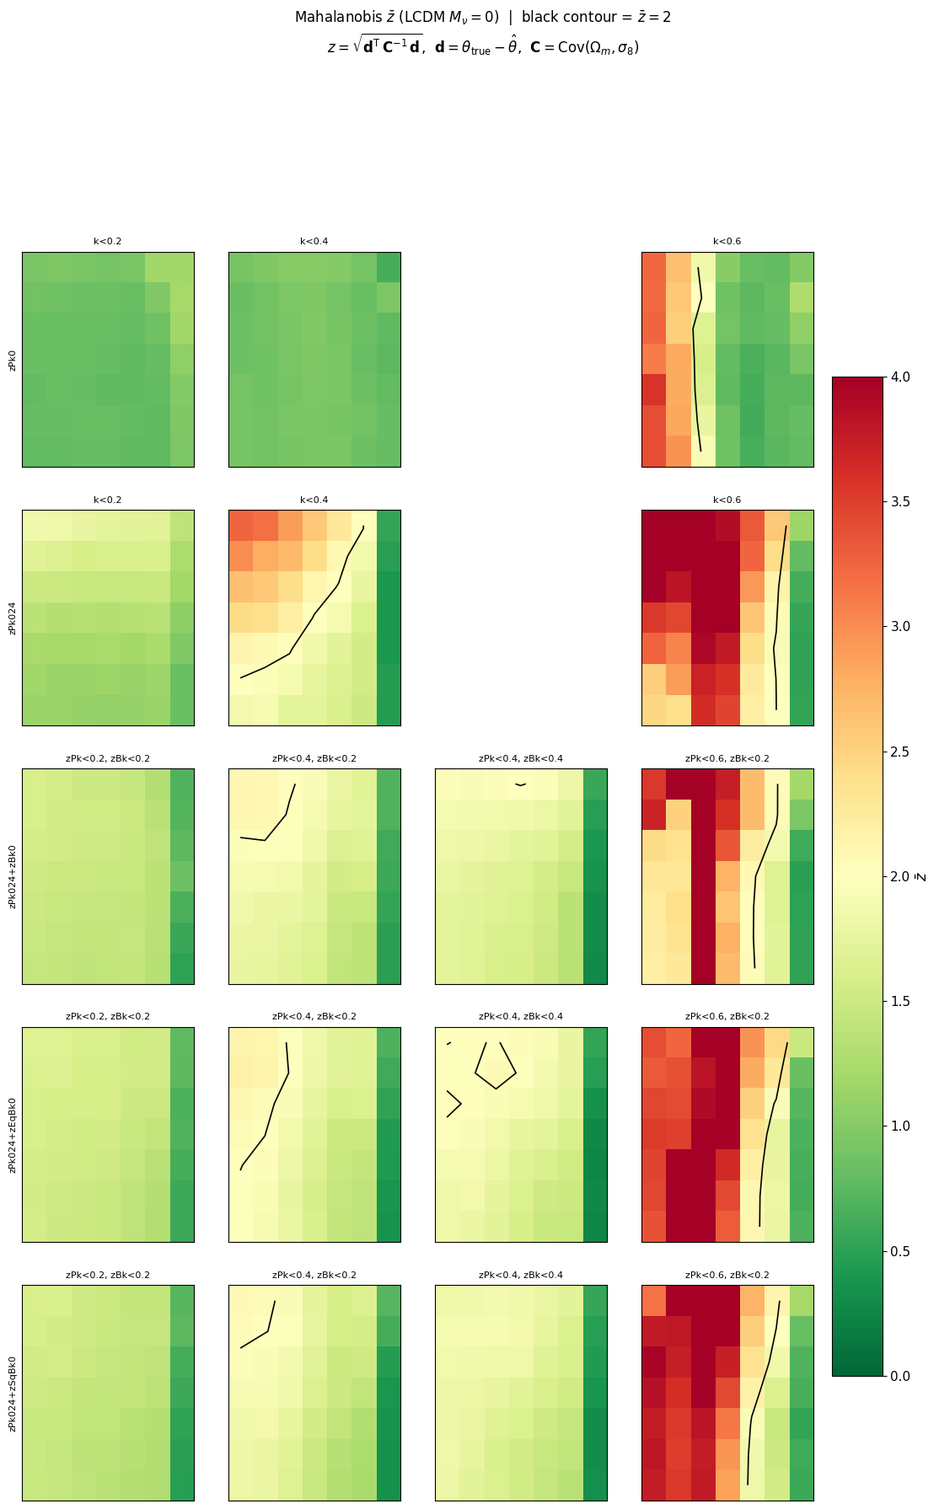
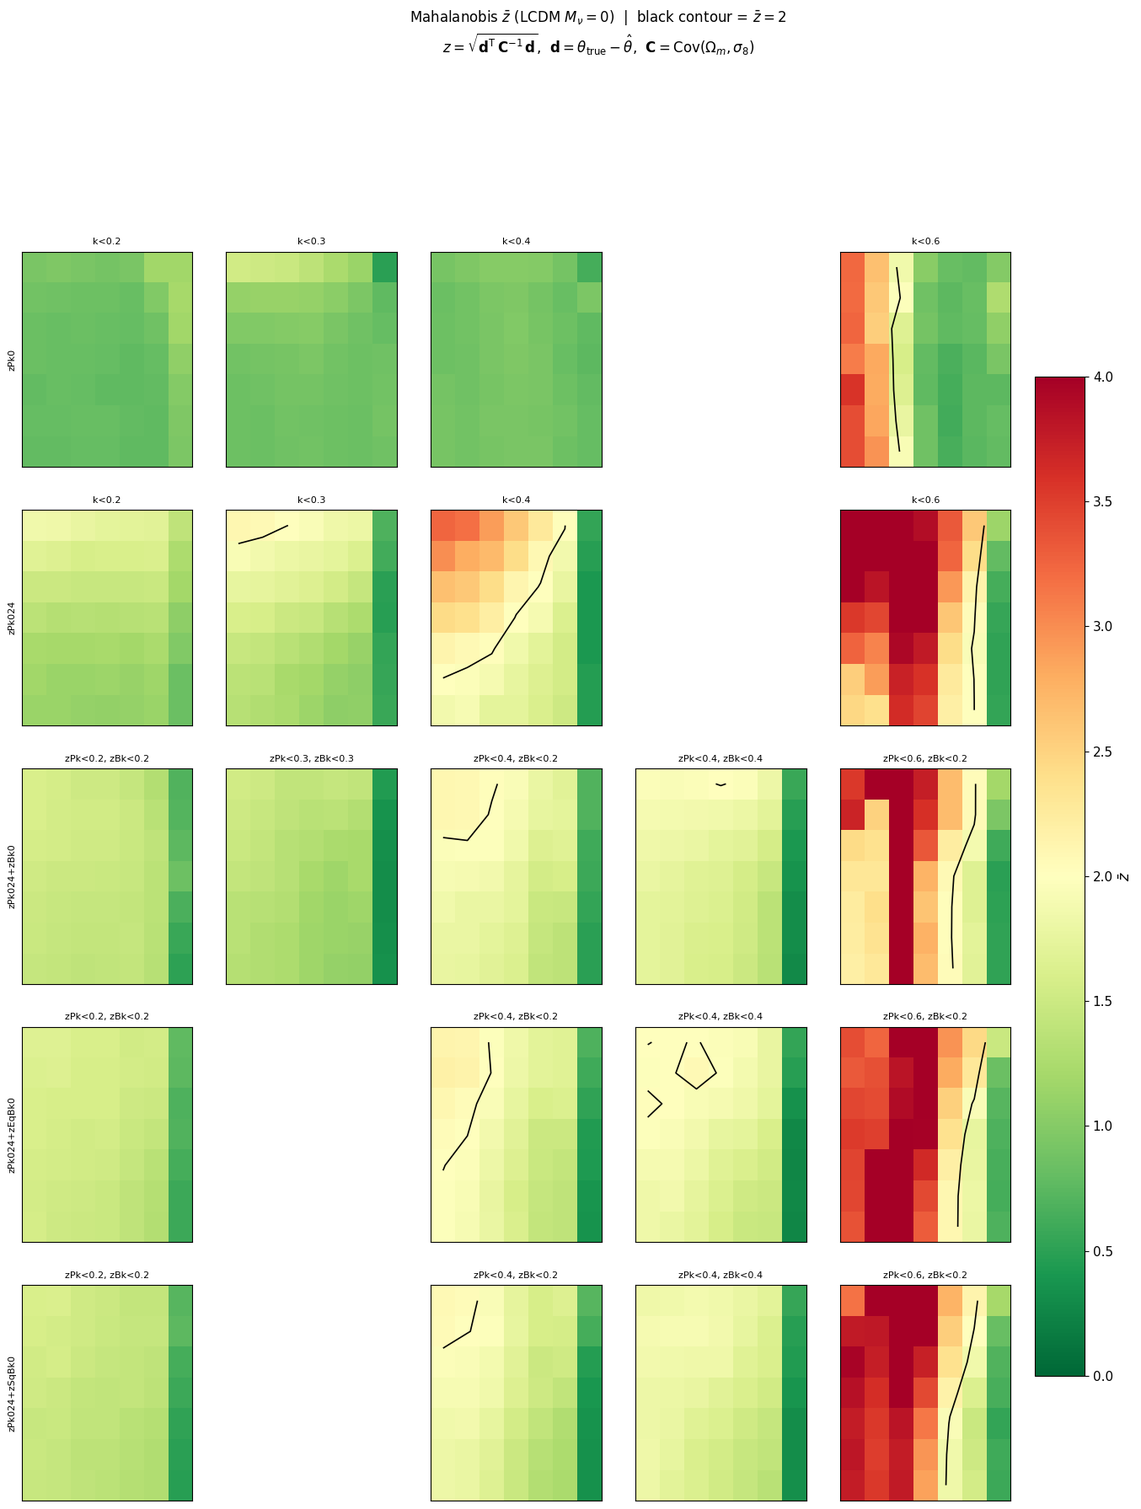
Abacus reparam HOD PPCs

diff --git a/experiments/2026-10-02_ppc_abacuslike-fastpm_charm7_cosmoHOD_reparam_abacus-nbody_comp_gridnoise_reparam/update.md b/experiments/2026-10-02_ppc_abacuslike-fastpm_charm7_cosmoHOD_reparam_abacus-nbody_comp_gridnoise_reparam/update.md
@@ -1,0 +1,166 @@
+# Posterior predictive check: `abacuslike/fastpm_charm7_cosmoHOD_reparam` against a noise-free Abacus observation, seven inference configurations
+
+**Date**: 2026-10-02
+**Type**: Miscellaneous / posterior predictive check
+**Train**: abacuslike fastpm_charm7_cosmoHOD_reparam (`infer.reparam_degeneracy=True`), L=2000 Mpc/h, N=256, z=0.5; 10-net lampe/NPE ensembles; posterior, forward chain and quantile reference pool all from this suite
+**Test**: abacus nbody_comp_gridnoise_reparam, lhid 38 = `AbacusSummit_base_c018_ph000` (LCDM, Mν=0), `hod00001_noise000000.h5`, i.e. σ_rad = σ_tran = 0. True [Ωm, Ωb, h, n_s, σ8] = [0.3071, 0.0482, 0.6777, 0.960, 0.8197]
+**Notes**: Out-of-distribution. Seven campaigns, one per inference configuration, each with 50 joint draws from q(θ|x_obs), resimulated through FastPM → CHARM charm7 (`charm_joint_v19.pth`, on DeltaAI) → `apply_hod` → `cmass.diagnostics.summ`. All 7 × 50 draws were collected, with cosmology, HOD and noise verified against the draw. Two zPk024 kmax=0.3 draws (ids 34, 35) had their stage-C jobs cancelled by SLURM and were rerun. With N = 50 the p-value floor is 1/(N+1) = 0.020, and the Monte Carlo error is ±0.06–0.07 near p = 0.5. The draws were inverted from (degen_r, degen_phi) to physical (eta_vb_centrals, noise_radial) before simulation; 4 zPk0 kmax=0.3 draws were rejected for falling outside the physical prior box and redrawn. x_obs comes from the Abacus suite re-preprocessed with `reparam_degeneracy=True`, `test_frac=1` (see the 2026-10-01 OOD note). Same observed lhid as the 2026-09-22 PPC, but at noise (0, 0) instead of (0.75, 0.75).
+
+---
+
+## Setup
+
+| Campaign | Conditioned on | Cut | D (cond.) | D (held out) |
+|---|---|---|---|---|
+| zPk0k02 | zPk0 | k<0.2 | 19 | 141 |
+| zPk0k03 | zPk0 | k<0.3 | 29 | 286 |
+| zPk024k02 | zPk0+zPk2+zPk4 | k<0.2 | 57 | 103 |
+| zPk024k03 | zPk0+zPk2+zPk4 | k<0.3 | 87 | 228 |
+| zPk024k04 | zPk0+zPk2+zPk4 | k<0.4 | 117 | 555 |
+| zPk024zBk0k02 | zPk0+zPk2+zPk4+zBk0 | zPk<0.2, zBk<0.2 | 79 | 81 |
+| zPk024zBk0k03 | zPk0+zPk2+zPk4+zBk0 | zPk<0.3, zBk<0.3 | 137 | 178 |
+
+Held-out blocks are cut at the campaign's own kmax (the zBk cut where one exists), so the held-out bispectrum has 22 triangles at 0.2, 50 at 0.3 and 125 at 0.4. The kmax=0.3 models were trained with fewer Optuna trials than the others (~57–77 against ~170; see the 2026-10-01 OOD note).
+
+## Overview
+
+| Campaign | cond. PCA | cond. Ledoit-Wolf | held-out PCA | held-out Ledoit-Wolf | held-out blocks at the PCA floor |
+|---|---|---|---|---|---|
+| zPk0k02 | 0.73 | 1.00 | 0.63 | 0.20 | none (lowest zQk0 0.06) |
+| zPk0k03 | 0.94 | 1.00 | 0.41 | 0.43 | none (lowest zQk0 0.16) |
+| zPk024k02 | 0.82 | 0.96 | 0.57 | 0.39 | none (lowest zQk0 0.10) |
+| zPk024k03 | 0.75 | 0.78 | 0.10 | **0.020** | zBk0, zQk0, zSqBk0 |
+| zPk024k04 | 0.75 | **0.039** | **0.020** | **0.020** | all six |
+| zPk024zBk0k02 | 0.76 | 0.20 | 0.39 | 0.08 | zSqBk0 |
+| zPk024zBk0k03 | 0.69 | 0.14 | 0.31 | 0.039 | zQk0, zSqBk0 |
+
+- The P(k)-only posteriors at kmax 0.2, and zPk0 at 0.3, pass every test. Conditioned PCA p is 0.73–0.94 with Ledoit-Wolf 0.96–1.00. Held-out PCA p is 0.41–0.63, and no individual block falls below 0.06. Their held-out Ledoit-Wolf p is 0.20–0.43.
+
+- zPk024 at kmax 0.4 fails as in the 2026-09-22 PPC, although the observation is now noise-free:
+  - The conditioned vector passes in PCA (0.75) but fails Ledoit-Wolf (0.039). zPk0 alone, and its deviation orthogonal to the top-10 PCs, are at the floor (0.020).
+  - Every held-out block is at the floor in PCA, Ledoit-Wolf and the orthogonal residual. Hotelling p_F ranges from 3e-3 (zBk2) to 1.2e-7 (zQk0) and 4e-7 (zBk0).
+  - Panel (e) shows the held-out failure holds from k ≈ 3 PCs kept onward.
+
+<img width="900" src="figures/zPk024k04/ppc_pcapvalue.png" />
+
+- In the cumulative k-bin scan, the kmax=0.4 posterior fails on zPk0 for every kmax ≥ 0.24 (p at the floor). The zPk024 kmax=0.3 posterior does not fail on the same scales: zPk0 p = 0.24 at kmax 0.32, and the combined multipoles 0.65.
+  - For the kmax 0.4 campaign, zPk0 has per-bin deviations (x_obs − mean)/σ of −1.5σ to −3σ over 0.17 < k < 0.32. The predictive median sits above x_obs, by +0.013 dex (+3.0%) in P0 over 0.2 < k < 0.3.
+  - The same P0 offset is +1.1% for the zPk024 kmax 0.3 posterior and +0.1% for zPk0 at 0.3.
+
+<img width="900" src="figures/zPk024k04/ppc_kbinpvalue.png" />
+
+<img width="900" src="figures/zPk024k03/ppc_kbinpvalue.png" />
+
+- zPk024 at kmax 0.3 passes on the conditioned P(k) but fails on the held-out bispectrum, in zBk0 (PCA 0.020, p_F = 0.018), zQk0 (p_F = 1.7e-4) and zSqBk0. Its cumulative scans show the failure only at the 22-triangle step (zQk0 at kmax 0.2: p = 0.020). The equilateral and B2 blocks pass (0.27 and 0.55).
+
+- Tested on the same 22 triangles (the cumulative scan's zBk ≤ 0.2 step), the held-out bispectrum fails only for zPk024 at kmax 0.4 and, partly, zPk024 at 0.3:
+
+  | 22-triangle cumulative p (k ≤ 0.2) | zPk0k02 | zPk0k03 | zPk024k02 | zPk024k03 | zPk024k04 |
+  |---|---|---|---|---|---|
+  | zBk0 | 0.18 | 0.35 | 0.12 | 0.20 | 0.020 |
+  | zQk0 | 0.08 | 0.16 | 0.10 | 0.020 | 0.020 |
+  | zSqBk0 (10 triangles) | 0.10 | 0.35 | 0.12 | 0.08 | 0.020 |
+
+  For the P(k)-only campaigns, the held-out bispectrum fails at a fixed triangle set as the conditioned zPk024 cut grows from 0.3 to 0.4, but not as zPk0's cut grows from 0.2 to 0.3.
+
+- Conditioning on zBk0 does not make the bispectrum fit:
+  - zBk0 itself is at the Ledoit-Wolf floor at {0.2, 0.2}, and at the PCA, Ledoit-Wolf and residual floors at {0.3, 0.3} (p_F = 1.3e-3).
+  - The held-out zSqBk0 is at or near the floor in both (PCA 0.020, p_F = 0.002 and 0.006), and zQk0 joins it at {0.3, 0.3}.
+  - In the {0.3, 0.3} bands, the predictive B0 sits above x_obs everywhere, by a median +0.026 dex, rising with triangle index to ~+0.05 dex. 58% of zBk0 bins and 67% of zSqBk0 bins lie outside the 68% band. P0 is high by +2.5% over 0.2 < k < 0.3.
+
+<img width="900" src="figures/zPk024zBk0k03/ppc_bands.png" />
+
+- The direction of the bispectrum mismatch is the same in all seven campaigns and matches the 2026-09-22 note. The predictive median sits above the observed B0 by +0.012 to +0.028 dex (zBk0) and +0.016 to +0.039 dex (zEqBk0), growing with k or triangle index. It sits below the observed Q0 by −0.001 to −0.004 dex, against a 68% half-width of only ~0.002–0.003 dex. These offsets exceed the bands (fails the tests) only at the larger cuts.
+
+<img width="900" src="figures/zPk024k04/ppc_bands.png" />
+
+- zPk2 passes in every campaign, whether conditioned or held out (PCA 0.86–0.98). zPk4 passes too (0.41–0.92), with its largest residual at k < 0.05 (median +0.006 to +0.023 in P4/P0).
+
+## Parameter space
+
+<img width="900" src="figures/zPk024k04/ppc_corner.png" />
+
+- In every corner plot the 50 simulated parameter vectors fall inside the direct 5000-sample posterior. Nothing drifted between drawing and simulating.
+- Cosmology is recovered within ~1σ of the draw spread in Ωm: medians 0.299–0.310, against 0.307. σ8 medians are 0.832–0.849 (spread 0.017–0.077), +0.4 to +1.3σ above the true 0.820, except zPk0 at 0.3 (0.915 ± 0.074).
+- h is lowest for zPk024 at kmax 0.4: 0.555 ± 0.059 against 0.678. The other campaigns give 0.651–0.726.
+- logMmin is recovered by the P(k)-only posteriors at 0.2 and 0.3 (12.55–12.72 against 12.73). It is pulled low when the posterior is conditioned on zPk at 0.4 (12.11) or on zBk0 (12.24 and 11.97). The 2026-09-28 note traces a similar low logMmin to CHARM's mass function near its 10^12.7 floor.
+- noise_transverse is inferred at 1.46–1.88 (spread 0.04–0.19) for every zPk024 posterior, against a true 0. That is consistent with the ~1.41 Mpc/h CHARM offset in the 2026-09-28 note. For zPk0 alone it is 1.19–1.80, with spreads of 0.7–1.0.
+
+<img width="700" src="figures/zPk024k04/ppc_logprob.png" />
+
+- The log-posterior-density histograms of the 50 resimulated vectors overlap the direct-sample histograms. The ESS, max-weight and "importance-sampled data" annotations are inherited from the importance-sampling figure and hold trivially for an unweighted ensemble (ESS = N, max weight = 1/N).
+
+## Caveats
+
+- This is a single observation, one Abacus box at one noise level. The 2026-09-22 PPC used the same box at noise (0.75, 0.75), a non-reparam posterior and N = 100. The kmax=0.4 failure pattern agrees between the two, but the observation, the posterior and N all differ.
+- Held-out blocks are tested at each campaign's own cut, so the held-out vectors have very different sizes (81–555 features). The 22-triangle cumulative table above is the like-for-like comparison.
+- The kmax=0.3 models had fewer Optuna trials than the others (~57–77 completed against ~170), and their Abacus posteriors are wider in Ωm (2026-10-01 note). Some of the zPk024 kmax=0.3 pass may come from that extra width.
+- With N = 50, p differences below ~0.07 are not significant, and p at 0.020 means only "more extreme than all 50 draws".
+
+## Additional figures
+
+Remaining figures per campaign: bands, corner, logprob and both p-value figures.
+
+<details>
+<summary>zPk0, k&lt;0.2</summary>
+
+<img width="900" src="figures/zPk0k02/ppc_bands.png" />
+<img width="900" src="figures/zPk0k02/ppc_pcapvalue.png" />
+<img width="900" src="figures/zPk0k02/ppc_kbinpvalue.png" />
+<img width="700" src="figures/zPk0k02/ppc_corner.png" />
+<img width="500" src="figures/zPk0k02/ppc_logprob.png" />
+
+</details>
+
+<details>
+<summary>zPk0, k&lt;0.3</summary>
+
+<img width="900" src="figures/zPk0k03/ppc_bands.png" />
+<img width="900" src="figures/zPk0k03/ppc_pcapvalue.png" />
+<img width="900" src="figures/zPk0k03/ppc_kbinpvalue.png" />
+<img width="700" src="figures/zPk0k03/ppc_corner.png" />
+<img width="500" src="figures/zPk0k03/ppc_logprob.png" />
+
+</details>
+
+<details>
+<summary>zPk024, k&lt;0.2</summary>
+
+<img width="900" src="figures/zPk024k02/ppc_bands.png" />
+<img width="900" src="figures/zPk024k02/ppc_pcapvalue.png" />
+<img width="900" src="figures/zPk024k02/ppc_kbinpvalue.png" />
+<img width="700" src="figures/zPk024k02/ppc_corner.png" />
+<img width="500" src="figures/zPk024k02/ppc_logprob.png" />
+
+</details>
+
+<details>
+<summary>zPk024, k&lt;0.3</summary>
+
+<img width="900" src="figures/zPk024k03/ppc_bands.png" />
+<img width="900" src="figures/zPk024k03/ppc_pcapvalue.png" />
+<img width="700" src="figures/zPk024k03/ppc_corner.png" />
+<img width="500" src="figures/zPk024k03/ppc_logprob.png" />
+
+</details>
+
+<details>
+<summary>zPk024+zBk0, zPk&lt;0.2, zBk&lt;0.2</summary>
+
+<img width="900" src="figures/zPk024zBk0k02/ppc_bands.png" />
+<img width="900" src="figures/zPk024zBk0k02/ppc_pcapvalue.png" />
+<img width="900" src="figures/zPk024zBk0k02/ppc_kbinpvalue.png" />
+<img width="700" src="figures/zPk024zBk0k02/ppc_corner.png" />
+<img width="500" src="figures/zPk024zBk0k02/ppc_logprob.png" />
+
+</details>
+
+<details>
+<summary>zPk024+zBk0, zPk&lt;0.3, zBk&lt;0.3</summary>
+
+<img width="900" src="figures/zPk024zBk0k03/ppc_pcapvalue.png" />
+<img width="900" src="figures/zPk024zBk0k03/ppc_kbinpvalue.png" />
+<img width="700" src="figures/zPk024zBk0k03/ppc_corner.png" />
+<img width="500" src="figures/zPk024zBk0k03/ppc_logprob.png" />
+
+</details>

diff --git a/experiments/2026-10-01_ood_abacuslike-fastpm_charm7_cosmoHOD_reparam_abacus-nbody_comp_gridnoise_reparam/update.md b/experiments/2026-10-01_ood_abacuslike-fastpm_charm7_cosmoHOD_reparam_abacus-nbody_comp_gridnoise_reparam/update.md
@@ -5,7 +5,7 @@
 **Test**: abacus/nbody_comp_gridnoise_reparam
 **Tracer**: galaxy
 **Summaries**: zPk0; zPk0+zPk2+zPk4; zPk0+zPk2+zPk4+zBk0; zPk0+zPk2+zPk4+zEqBk0; zPk0+zPk2+zPk4+zSqBk0
-**kmax**: zPk0 and zPk024: 0.2, 0.4, 0.6 (scalar); zPk024+{zBk0,zEqBk0,zSqBk0}: zBk<0.2 with zPk<0.2/0.4/0.6, and zBk<0.4 with zPk<0.4. The kmax=0.3 models (zPk0, zPk024, zPk024+zBk0 at zPk=zBk=0.3) are still training and are skipped here.
+**kmax**: zPk0 and zPk024: 0.2, 0.3, 0.4, 0.6 (scalar); zPk024+zBk0: zBk<0.2 with zPk<0.2/0.4/0.6, zBk<0.3 with zPk<0.3, and zBk<0.4 with zPk<0.4; zPk024+{zEqBk0,zSqBk0}: as zBk0 without the 0.3 cut. The three kmax=0.3 cells were added on 2026-10-02, after their models finished training (`infer=k03`, Optuna cut short by sqlite lock contention, so ~57-77 completed trials per study against ~170 for the others).
 **Notes**: Models trained with `infer.reparam_degeneracy=True`, i.e. the flow samples (degen_r, degen_phi) in place of (eta_vb_centrals, noise_radial); Ωm and σ8 are unaffected by the reparameterization. The Abacus N-body test suite (same halos and diag files as `nbody_comp_gridnoise`, 5732 rows over 119 lhids × 49 noise configs) was re-preprocessed with `reparam_degeneracy=True`, `val_frac=0`, `test_frac=1` so that theta_test is in the model's coordinates. The comparison "non-reparam" numbers below are the sibling `fastpm_charm7_cosmoHOD` models on `abacus/nbody_comp_gridnoise` (17 of 18 cells; its zPk0 kmax=0.4 cell has no OOD samples). The bias table was computed from the same `posterior_samples.npy` files the figures are built from (script and CSV: `cmass-ili/scratch/reparam_ood_table/`). In every heatmap the x-axis is σ_tran and the y-axis σ_rad, both 0 to 4.51 Mpc/h.
 
 ## Overview
@@ -56,17 +56,35 @@
 
 - At the noise-free row (σ_rad = σ_tran = 0, 9 LCDM Mν=0 points), σ8 is closer to truth at zPk024 kmax 0.4 than when averaged over the noise grid: z = +0.12, against +0.73 over all σ_tran < 4.51. The same holds for the three zPk<0.4, zBk<0.2 bispectrum cells (−0.09 to +0.03). At zPk024 kmax 0.2 it stays at +0.86, and at zPk<0.2, zBk<0.2 at +0.75 to +0.80. This is the noise row used for the 2026-10-01 PPC campaigns.
 
-- The reparameterization does not change cosmology recovery relative to the non-reparam sibling `fastpm_charm7_cosmoHOD`. Cell by cell, the LCDM Mν=0 mean z differs by at most ~0.2 in Ωm and ~0.7 in σ8. The largest σ8 differences are at zPk<0.6 (+zEqBk0 +2.89 vs +2.11; zPk024 +2.90 vs +2.20). Elsewhere, the reparam σ8 z is within ±0.26, slightly higher in most cells: zPk024 kmax 0.2 +1.10 vs +1.02, kmax 0.4 +0.73 vs +0.65. Posterior widths agree to ≲ 0.003 in both parameters.
+- The reparameterization does not change cosmology recovery relative to the non-reparam sibling `fastpm_charm7_cosmoHOD` (which has no kmax=0.3 models, so those rows have no comparison). Cell by cell, the LCDM Mν=0 mean z differs by at most ~0.2 in Ωm and ~0.7 in σ8. The largest σ8 differences are at zPk<0.6 (+zEqBk0 +2.89 vs +2.11; zPk024 +2.90 vs +2.20). Elsewhere, the reparam σ8 z is within ±0.26, slightly higher in most cells: zPk024 kmax 0.2 +1.10 vs +1.02, kmax 0.4 +0.73 vs +0.65. Posterior widths agree to ≲ 0.003 in both parameters.
+
+- The kmax=0.3 cells (added 2026-10-02) sit between their 0.2 and 0.4 neighbours in σ8 and are unbiased in Ωm. Over the LCDM Mν=0 points with σ_tran < 4.51, the mean z is:
+  - zPk0 k<0.3: Ωm +0.18, σ8 +0.36.
+  - zPk024 k<0.3: Ωm +0.03, σ8 +1.04 (Δσ8 = +0.041), close to its k<0.2 value (+1.10) rather than its k<0.4 one (+0.73).
+  - zPk024+zBk0 at zPk<0.3, zBk<0.3: Ωm +0.26, σ8 +0.54.
+  - At the noise-free row these fall to σ8 +0.10, +0.82 and +0.51.
+  - In the global grid, zPk024 k<0.3 stays below z = 2 except a sliver at σ_rad = 4.51, σ_tran ≤ 1.5, where k<0.4 has the large z > 2 band. The zPk<0.3, zBk<0.3 cell is uniformly z ≈ 1–1.5.
+- The kmax=0.3 posteriors on Abacus are wider in Ωm than their neighbours: median std 0.022 for zPk024 and 0.028 for +zBk0, against 0.015–0.017 at kmax 0.2 and 0.4. Their σ8 widths (0.043–0.047) are comparable. These models had roughly a third of the Optuna trials of the others (see the kmax line above), and their self-consistent widths were not compared here.
+
+<table>
+<tr>
+<td><img width="450" src="figures/zPk0_zPk2_zPk4_kmin-0.0_kmax-0.3/scatter_n24.jpg" /></td>
+<td><img width="450" src="figures/zPk0_zPk2_zPk4_kmin-0.0_kmax-0.3/pred_s8.jpg" /></td>
+</tr>
+</table>
 
 | Cell (LCDM Mν=0, σ_tran < 4.51) | z Ωm reparam / non-reparam | z σ8 reparam / non-reparam | std σ8 reparam |
 |---|---|---|---|
 | zPk0 k<0.2 | 0.03 / 0.04 | 0.19 / 0.16 | 0.112 |
+| zPk0 k<0.3 | 0.18 / — | 0.36 / — | 0.109 |
 | zPk0 k<0.4 | 0.19 / — | 0.16 / — | 0.106 |
 | zPk0 k<0.6 | −0.05 / 0.02 | 1.57 / 1.40 | 0.089 |
 | zPk024 k<0.2 | 0.19 / 0.07 | 1.10 / 1.02 | 0.049 |
+| zPk024 k<0.3 | 0.03 / — | 1.04 / — | 0.047 |
 | zPk024 k<0.4 | 0.67 / 0.67 | 0.73 / 0.65 | 0.034 |
 | zPk024 k<0.6 | 0.91 / 0.86 | 2.90 / 2.20 | 0.039 |
 | +zBk0 zPk<0.2, zBk<0.2 | 0.29 / 0.16 | 0.81 / 0.89 | 0.041 |
+| +zBk0 zPk<0.3, zBk<0.3 | 0.26 / — | 0.54 / — | 0.043 |
 | +zBk0 zPk<0.4, zBk<0.2 | 0.53 / 0.55 | 0.24 / 0.25 | 0.031 |
 | +zBk0 zPk<0.4, zBk<0.4 | 0.57 / 0.49 | 0.40 / 0.14 | 0.034 |
 | +zBk0 zPk<0.6, zBk<0.2 | 0.97 / 0.93 | 2.23 / 2.49 | 0.040 |
@@ -97,6 +115,25 @@
 </tr>
 <tr>
 <td><img width="400" src="figures/zPk0_kmin-0.0_kmax-0.2/lcdm_z_heatmap.png" /></td>
+</tr>
+</table>
+
+</details>
+
+<details>
+<summary>zPk0 kmax=0.3</summary>
+
+<table>
+<tr>
+<td><img width="400" src="figures/zPk0_kmin-0.0_kmax-0.3/pred_Om.jpg" /></td>
+<td><img width="400" src="figures/zPk0_kmin-0.0_kmax-0.3/pred_s8.jpg" /></td>
+</tr>
+<tr>
+<td><img width="400" src="figures/zPk0_kmin-0.0_kmax-0.3/scatter_n24.jpg" /></td>
+<td><img width="400" src="figures/zPk0_kmin-0.0_kmax-0.3/residuals_n24.jpg" /></td>
+</tr>
+<tr>
+<td><img width="400" src="figures/zPk0_kmin-0.0_kmax-0.3/lcdm_z_heatmap.png" /></td>
 </tr>
 </table>
 
@@ -162,6 +199,23 @@
 </details>
 
 <details>
+<summary>zPk024 kmax=0.3 (scatter and pred_s8 shown above)</summary>
+
+<table>
+<tr>
+<td><img width="400" src="figures/zPk0_zPk2_zPk4_kmin-0.0_kmax-0.3/pred_Om.jpg" /></td>
+</tr>
+<tr>
+<td><img width="400" src="figures/zPk0_zPk2_zPk4_kmin-0.0_kmax-0.3/residuals_n24.jpg" /></td>
+</tr>
+<tr>
+<td><img width="400" src="figures/zPk0_zPk2_zPk4_kmin-0.0_kmax-0.3/lcdm_z_heatmap.png" /></td>
+</tr>
+</table>
+
+</details>
+
+<details>
 <summary>zPk024 kmax=0.4</summary>
 
 <table>
@@ -204,6 +258,25 @@
 </tr>
 <tr>
 <td><img width="400" src="figures/zPk0_zPk2_zPk4_zBk0_kmin-0.0_kmax-zBk=0.2__zPk=0.2/lcdm_z_heatmap.png" /></td>
+</tr>
+</table>
+
+</details>
+
+<details>
+<summary>zPk024+zBk0: zPk&lt;0.3, zBk&lt;0.3</summary>
+
+<table>
+<tr>
+<td><img width="400" src="figures/zPk0_zPk2_zPk4_zBk0_kmin-0.0_kmax-zBk=0.3__zPk=0.3/pred_Om.jpg" /></td>
+<td><img width="400" src="figures/zPk0_zPk2_zPk4_zBk0_kmin-0.0_kmax-zBk=0.3__zPk=0.3/pred_s8.jpg" /></td>
+</tr>
+<tr>
+<td><img width="400" src="figures/zPk0_zPk2_zPk4_zBk0_kmin-0.0_kmax-zBk=0.3__zPk=0.3/scatter_n24.jpg" /></td>
+<td><img width="400" src="figures/zPk0_zPk2_zPk4_zBk0_kmin-0.0_kmax-zBk=0.3__zPk=0.3/residuals_n24.jpg" /></td>
+</tr>
+<tr>
+<td><img width="400" src="figures/zPk0_zPk2_zPk4_zBk0_kmin-0.0_kmax-zBk=0.3__zPk=0.3/lcdm_z_heatmap.png" /></td>
 </tr>
 </table>
 

diff --git a/experiments/README.md b/experiments/README.md
@@ -39,4 +39,5 @@
 | [2026-09-23](2026-09-23_ood_mtnglike-fastpm_charm7_quijote3gpch-nbody/update.md) | OOD | mtnglike fastpm_charm7 (galaxy) | quijote3gpch nbody (lhid 2000, fiducial) | Single-cosmology OOD reported as corner plots (new ood_quijote3gpch_inference.py / ood_corner.py); no coverage statistics since there is one true cosmology, diagnostic is the joint Mahalanobis z on (Ωm,σ8); recovery degrades sharply with the zPk cut (mean z 0.80/1.79/2.21 at k<0.2/0.4/0.6), only 8 of 18 cells reach z<2; Ωm over-predicted in 16/18 cells growing to +1.58σ at zPk<0.6; σ8 flips sign, under-predicted by up to -3.72σ at zPk<0.4 and over-predicted by up to +2.42σ at zPk<0.6; loosening zBk to 0.4 at fixed zPk<0.4 improves recovery, so the degradation tracks the zPk cut; HOD-to-HOD z spread large (median 2.46); LIMITATION: test set covers only 3 of 49 noise configs, all on the σ_rad=σ_tran diagonal |
 | [2026-09-23](2026-09-23_ood_mtnglike-fastpm_charm7_mtng-nbody/update.md) | OOD | mtnglike fastpm_charm7 (mtng_lightcone) | mtng nbody (MTNG lightcone) | Single-cosmology OOD reported as corner plots (new ood_mtng_inference.py / ood_corner.py), all 49 noise configs; mean z 1.41, 89.8% of 882 (cell,noise) combinations below z=2, all 18 cells below z=2 at their best config; Pk0+Pk2+Pk4 is the best summary with zero failures at any kmax while Pk0 alone fails 27.9% of configs, and adding a bispectrum mildly degrades (+Bk0 2.0%, +EqBk0 9.2%, +SqBk0 13.8% above z=2); Ωm over-predicted in all 18 cells (+0.16σ to +1.71σ); z degrades monotonically with radial noise (1.27→1.72 over σ_rad) and saturates in transverse noise |
 | [2026-09-24](2026-09-24_ppc_abacuslike-fastpm_charm7_cosmoHOD_reparam/update.md) | Misc | abacuslike fastpm_charm7_cosmoHOD_reparam (reparam_degeneracy, self-consistent) | — | Self-consistent PPC at lhid 2213, zPk024 kmax=0.4, 99/100 draws collected; x_obs typical in every matched leave-one-out test: PCA p = 0.75 conditioned / 0.91 held-out, Ledoit-Wolf 0.90 / 1.00, all blocks p ≥ 0.43 (PCA), no k-bin window or cumulative test below p ≈ 0.1; predictive median tracks x_obs in all nine blocks; caveat: different observation than the failing OOD PPC, so not a like-for-like check of that failure |
-| [2026-10-01](2026-10-01_ood_abacuslike-fastpm_charm7_cosmoHOD_reparam_abacus-nbody_comp_gridnoise_reparam/update.md) | Abacus OOD | abacuslike fastpm_charm7_cosmoHOD_reparam (reparam_degeneracy) | abacus nbody_comp_gridnoise_reparam (re-preprocessed, test_frac=1) | 18 cells (kmax=0.3 models still training); Ωm recovered at zPk kmax ≤ 0.4 (LCDM Mν=0 mean z 0.03-0.67, offset ≤ 0.01); σ8 biased high and non-monotonic in kmax: zPk024 z = +1.10/+0.73/+2.90 at k<0.2/0.4/0.6, best cells are the zPk<0.4 bispectrum cuts (+0.24 to +0.40), zPk<0.6 cells saturate with σ8 pinned at ~0.95-1.0 for σ_tran ≤ 0.75; at noise (0,0) zPk024 k<0.4 σ8 z = +0.12; Mν>0 points scatter low and Mν=0 high in σ8; σ_tran = 4.51 column green only because posteriors fill the prior; reparam vs non-reparam sibling agree within ~0.2 in Ωm z and ±0.26 in σ8 z except zPk<0.6 (up to +0.8 worse) |
+| [2026-10-01](2026-10-01_ood_abacuslike-fastpm_charm7_cosmoHOD_reparam_abacus-nbody_comp_gridnoise_reparam/update.md) | Abacus OOD | abacuslike fastpm_charm7_cosmoHOD_reparam (reparam_degeneracy) | abacus nbody_comp_gridnoise_reparam (re-preprocessed, test_frac=1) | 21 cells, including the kmax=0.3 models added 2026-10-02 (zPk0 σ8 z +0.36, zPk024 +1.04, +zBk0 {0.3,0.3} +0.54; their Ωm posteriors are ~40-80% wider, fewer Optuna trials); Ωm recovered at zPk kmax ≤ 0.4 (LCDM Mν=0 mean z 0.03-0.67, offset ≤ 0.01); σ8 biased high and non-monotonic in kmax: zPk024 z = +1.10/+0.73/+2.90 at k<0.2/0.4/0.6, best cells are the zPk<0.4 bispectrum cuts (+0.24 to +0.40), zPk<0.6 cells saturate with σ8 pinned at ~0.95-1.0 for σ_tran ≤ 0.75; at noise (0,0) zPk024 k<0.4 σ8 z = +0.12; Mν>0 points scatter low and Mν=0 high in σ8; σ_tran = 4.51 column green only because posteriors fill the prior; reparam vs non-reparam sibling agree within ~0.2 in Ωm z and ±0.26 in σ8 z except zPk<0.6 (up to +0.8 worse) |
+| [2026-10-02](2026-10-02_ppc_abacuslike-fastpm_charm7_cosmoHOD_reparam_abacus-nbody_comp_gridnoise_reparam/update.md) | Misc | abacuslike fastpm_charm7_cosmoHOD_reparam (reparam_degeneracy) | abacus nbody_comp_gridnoise_reparam (lhid 38, LCDM Mν=0, σ_rad=σ_tran=0) | OOD posterior predictive check, seven configurations × 50 draws (zPk0 k<0.2/0.3, zPk024 k<0.2/0.3/0.4, zPk024+zBk0 at 0.2/0.2 and 0.3/0.3), all 350 collected, floor 0.020; P(k)-only posteriors at k<0.2 and zPk0 at k<0.3 pass every test (held-out PCA 0.41-0.63, no block below 0.06); zPk024 k<0.4 fails as on 2026-09-22 despite zero noise (cond. Ledoit-Wolf 0.039, zPk0 cumulative at the floor for kmax ≥ 0.24, P0 high by +3.0% over 0.2<k<0.3, every held-out block at the floor, p_F to 1e-7); zPk024 k<0.3 passes on P(k) but fails held-out zBk0/zQk0/zSqBk0; conditioning on zBk0 leaves zBk0 itself and held-out zSqBk0 at the floor; predictive B0 high by +0.01-0.04 dex and Q0 low in every campaign; logMmin pulled low (11.97-12.24) when conditioned on zBk0 or zPk at 0.4 |
